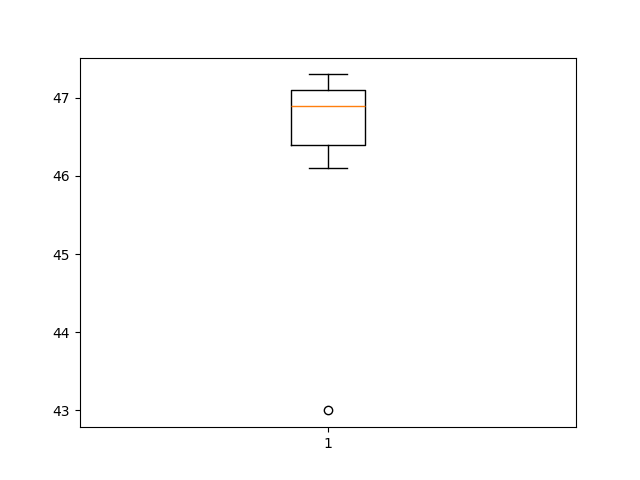
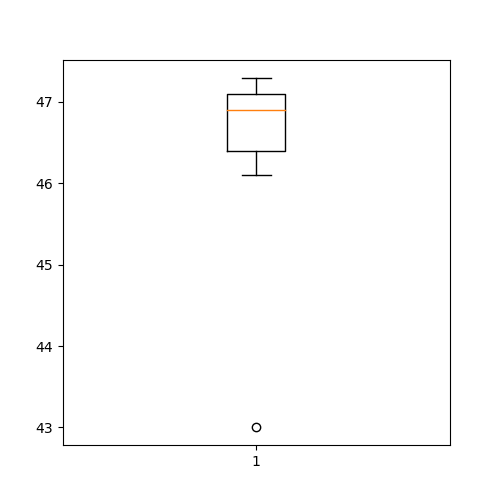
Scatterplot und Quantile

Changed region(s): [[0.06, 0.0938, 0.9, 0.9062]]

diff --git a/Code/datensatz_auswertung.py b/Code/datensatz_auswertung.py
@@ -2,7 +2,6 @@ import csv
 import math
 import os
 import matplotlib.pyplot as plt
-import numpy as np
 
 
 def main():
@@ -74,9 +73,15 @@ def main():
 
             print_kovarianz(werteX, werteY, 3)
 
+            plt.figure(figsize=(5, 5))
             plt.boxplot(sorted(werteY))
 
             plt.savefig("boxplot.png")
+
+            plt.figure(figsize=(5, 5))
+            plt.scatter(werteX, werteY)
+
+            plt.savefig("scatterplot.png")
 
     else:
         print("datei existiert nicht!\n")
@@ -103,8 +108,8 @@ def print_median(name, werte):
     else:
         median_unten_index = int(len(werte) / 2)
         median_oben_index = int(len(werte) / 2) + 1
-        print("Median " + name + ": " + str((1/2) * (werte[median_unten_index] + werte[median_oben_index])))
-        return (1/2) * (werte[median_unten_index] + werte[median_oben_index])
+        print("Median " + name + ": " + str((1 / 2) * (werte[median_unten_index] + werte[median_oben_index])))
+        return (1 / 2) * (werte[median_unten_index] + werte[median_oben_index])
 
 
 def print_arithmetische_mittel(name, werte, nachkommastelle):
@@ -139,7 +144,7 @@ def print_mittlere_abweichung_median(name, werte, nachkommastelle, median):
 def print_stichprobenvarianz(name, werte, nachkommastelle, mittelwert):
     varianz = 0
     for i in werte:
-        varianz = varianz + (abs(mittelwert - i))**2
+        varianz = varianz + (abs(mittelwert - i)) ** 2
     varianz = varianz / len(werte)
 
     print("Stichprobenvarianz " + name + ": " + str(round(varianz, nachkommastelle)))
@@ -160,9 +165,9 @@ def print_quantile(name, werte):
     print("Dezile:")
     while p <= 0.9:
         if (n * p) % 2 != 0:
-            print("Q" + str(round(p, 1)) + ": " + str(werte[math.floor(n*p)]))
+            print("Q" + str(round(p, 1)) + ": " + str(werte[math.floor(n * p)]))
         else:
-            print("Q" + str(round(p, 1)) + ": " + str((werte[n*p-1] + werte[n*p])/2))
+            print("Q" + str(round(p, 1)) + ": " + str((werte[n * p - 1] + werte[n * p]) / 2))
         p = p + 0.1
     print("\n")
     p = 0.25
@@ -171,11 +176,12 @@ def print_quantile(name, werte):
     print("Quartile:")
     while p <= 0.75:
         if (n * p) % 2 != 0:
-            print("Q" + str(round(p, 2)) + ": " + str(werte[math.floor(n*p)]))
+            print("Q" + str(round(p, 2)) + ": " + str(werte[math.floor(n * p)]))
         else:
-            print("Q" + str(round(p, 2)) + ": " + str((werte[n*p-1] + werte[n*p])/2))
+            print("Q" + str(round(p, 2)) + ": " + str((werte[n * p - 1] + werte[n * p]) / 2))
         p = p + 0.25
     print()
+
 
 def print_kovarianz(werte1, werte2, nachkommastelle):
     mittelwert1 = 0
@@ -194,7 +200,7 @@ def print_kovarianz(werte1, werte2, nachkommastelle):
     for i in range(0, len(werte1)):
         kovarianz += (werte1[i] - mittelwert1) * (werte2[i] - mittelwert2)
 
-    kovarianz = kovarianz / len(werte2) -1
+    kovarianz = kovarianz / (len(werte2) - 1)
 
     print("Kovarianz: " + str(round(kovarianz, nachkommastelle)))
 
